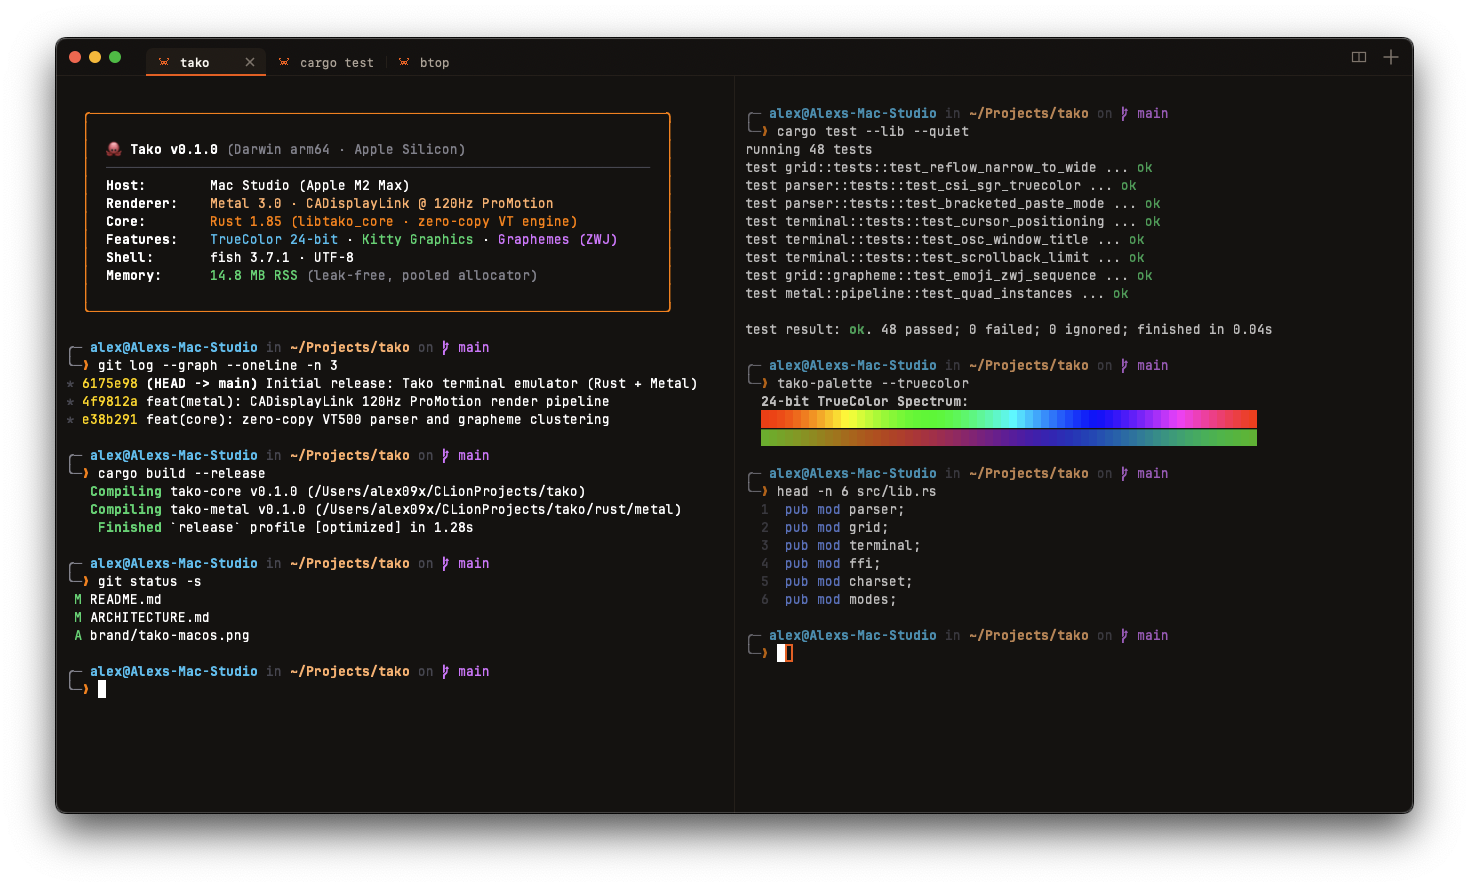
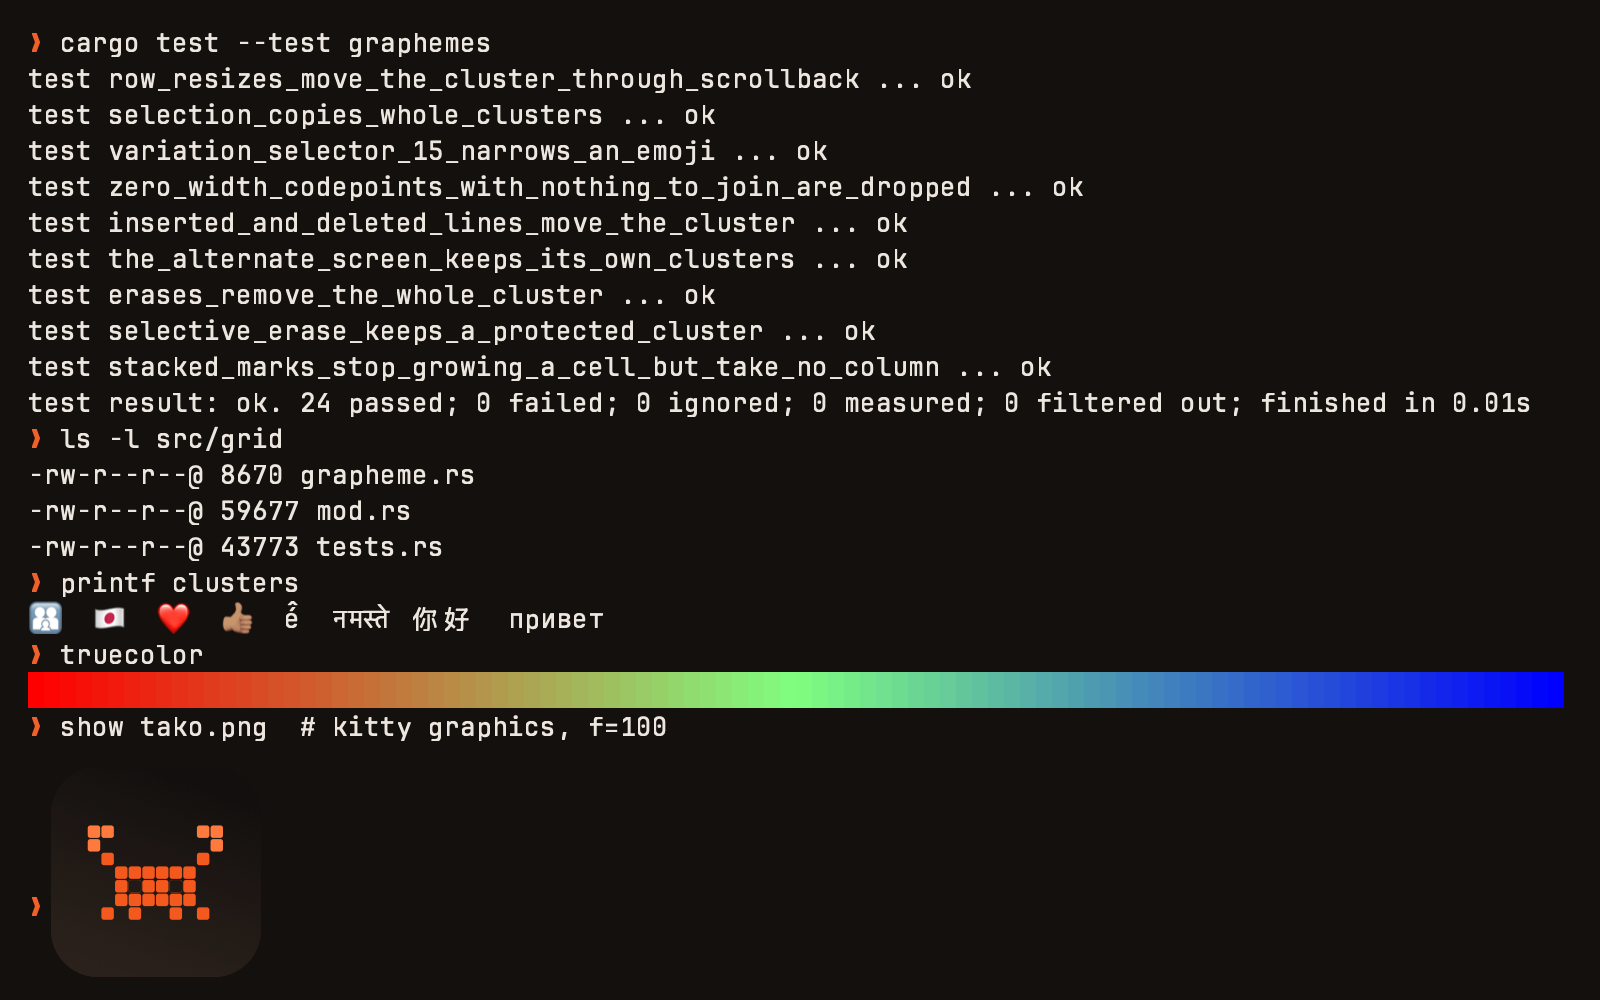
README: a real frame instead of a mock-up, and what kitty graphics lacks
The preview image was a drawing, not Tako: it showed a crate, commands
and tests that do not exist, and a private host name and home path. It
is now a frame Tako's own Metal renderer committed (the macOS app's
frame self-test). The kitty graphics line no longer claims more than the
engine does.

diff --git a/README.md b/README.md
@@ -19,7 +19,8 @@ A fast, lightweight, and modern GPU-accelerated terminal for macOS 14+ and iOS 1
 - **Pure-Rust Engine (`tako_core`)**:
   - Full VT100, xterm, and modern terminal sequence support.
   - Kitty Keyboard Protocol (progressive enhancements, disambiguation, event queries).
-  - Kitty Graphics Protocol (direct and chunked image transmission/rendering).
+  - Kitty Graphics Protocol images: RGB, RGBA and PNG over direct transmission. Query replies
+    are not implemented yet, so `kitten icat` does not detect the support.
   - Asynchronous PTY execution with non-blocking multi-threaded pipeline.
   - Embedded SSH client support (`features = ["ssh"]`).
 
